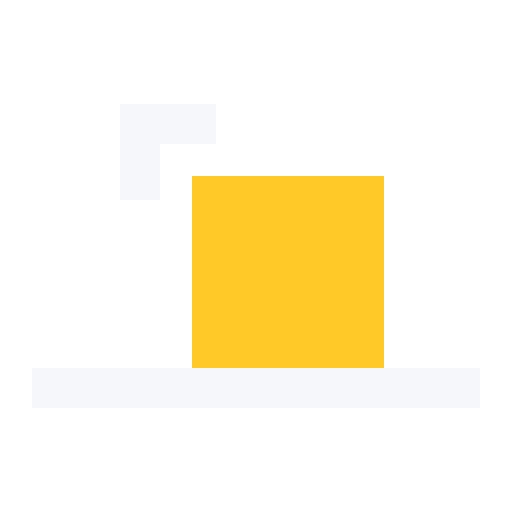
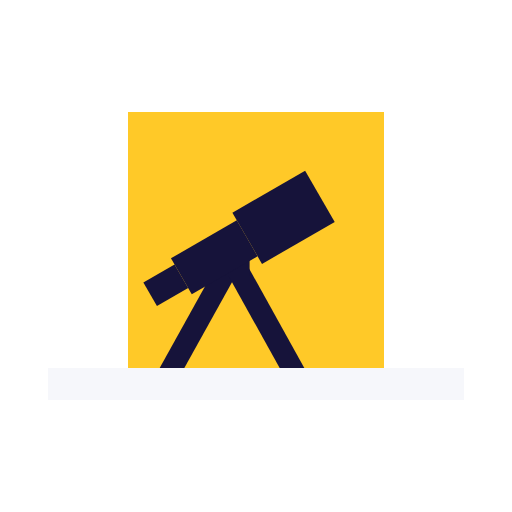
Brand: the telescope mark, with Sean's measured "ai" wordmark
The mark: a yellow frame resting on a rail, with a telescope inside it
standing on the rail and aimed up the word. Expectrail plays the game and
watches each frame against the expected line. The telescope replaces the
corner bracket; below about 24 px it melts into the frame, so the mark still
reads as a box on a rail at favicon size. The frame is now 32 units, so its
top meets the ascenders.

The wordmark is Sean's: TeX Gyre Adventor Regular with a 0.85-unit outline
stroke, the "ai" coloured (stone on light grounds, yellow on dark) with a
measurement rail under it and a square dot. build_logo.py now reproduces it
from the font, letter for letter, rather than from pasted paths. Changes on
top of his files:
- the "ai" rail is 2.4 units thick, up from 1.6, so it survives at the
  34 px header size;
- the gap between mark and word is tightened by 10 units;
- coordinates are rounded to two decimals, and each colour is one path,
  so a lockup is 3.3 KB instead of 11 KB.

Regenerated from the SVGs: the PNG exports, the brand sheet, the site's
Open Graph image and its touch icon. The landing page's logo sizes follow
the new aspect ratio. The brand README describes the new construction.

Claude-Session: https://claude.ai/code/session_01LDGtkVbYt3RqtUPurmjqEX

Changed region(s): [[0.25, 0.2188, 0.75, 0.7188]]

diff --git a/docs/index.html b/docs/index.html
@@ -196,7 +196,7 @@ footer a { color:var(--on-ink); }
 <a class="skip" href="#main">Skip to content</a>
 <div class="wrap">
   <header class="top">
-    <a class="logo" href="./" aria-label="Expectrail, home"><img src="brand/expectrail-logo.svg" alt="Expectrail" width="181" height="34"></a>
+    <a class="logo" href="./" aria-label="Expectrail, home"><img src="brand/expectrail-logo.svg" alt="Expectrail" width="171" height="34"></a>
     <nav aria-label="Sections">
       <a href="#how">How it works</a>
       <a href="#results">Results</a>
@@ -389,7 +389,7 @@ footer a { color:var(--on-ink); }
 <footer>
   <div class="wrap cols">
     <div>
-      <img src="brand/expectrail-logo-reverse.svg" alt="Expectrail" width="160" height="30">
+      <img src="brand/expectrail-logo-reverse.svg" alt="Expectrail" width="151" height="30">
       <p>Built for the Meta Global AI Developer Hackathon (Indie track), October 26 to November 4, 2026, by Sean Keluo-Udeke, Taofeek F. Obafemi-Babatunde, Timothy Itodo and Zayyad.</p>
       <p>Apache-2.0. The game is Godot's 2D platformer demo (MIT), unmodified.</p>
     </div>

diff --git a/docs/brand/build_logo.py b/docs/brand/build_logo.py
@@ -1,82 +1,153 @@
 """Build the Expectrail logo files (docs/brand/) from one construction: python3 docs/brand/build_logo.py
 
-Mark on a 64-unit grid (u = 4): a rail 56 x 5 (the expectation), a box 24 x 24 resting on it (what
-was observed), and one corner bracket 12-unit arms, 5 thick, 4 clear of the box (it was seen and
-measured). Wordmark: TeX Gyre Adventor Bold outlines (GUST Font License), the i's dot replaced by a
-square the colour of the box. In the lockup the box is one x-height tall and sits on the word's
-baseline, so the box reads as a letter-sized object on the same line as the word.
+The mark, on a 64-unit grid: a rail 52 x 4 (the expectation), and resting on it a yellow frame 32 x 32
+(a frame of the game, what Expectrail looks at). Inside the frame a telescope stands on the rail, on a
+two-legged tripod, aimed up and to the right, toward the name: Expectrail watches. At small sizes the
+telescope melts into the frame and the mark reads as a box resting on a rail, as before.
+
+The wordmark: TeX Gyre Adventor Regular outlines (GUST Font License), x-height 24, tracking -0.006 em,
+given weight with a 0.85-unit outline stroke. The dot of the i is a square, and the "ai" inside the name
+is measured: coloured, with a short yellow rail under it. In the lockup the frame's top lines up with
+the ascenders and its foot with the baseline, and the telescope looks along the word to the "ai".
+
+Colours: ink #16133A, paper #F6F7FB, rail yellow #FFC928, stone #4B4178. On a dark ground the "ai" is
+yellow; on a light ground it is stone, since yellow text on paper fails contrast. The telescope is ink in
+both, because it sits on the yellow frame.
 """
+import math
 import os
 from pathlib import Path
 
-from fontTools.pens.boundsPen import BoundsPen
-from fontTools.ttLib import TTFont
 from fontTools.pens.svgPathPen import SVGPathPen
 from fontTools.pens.transformPen import TransformPen
-
-def text_path(font_path, text, size=100, tracking=0, x=0, y=0, kern=True, skip_dot_i=False):
-    f = TTFont(font_path)
-    gs = f.getGlyphSet()
-    cmap = f.getBestCmap()
-    upm = f["head"].unitsPerEm
-    s = size / upm
-    hmtx = f["hmtx"]
-    pen = SVGPathPen(gs)
-    cx = x
-    boxes = {}
-    for ch in text:
-        gname = cmap[ord(ch)]
-        if skip_dot_i and ch == "i":
-            gname = cmap.get(0x0131, gname)  # dotless i
-        t = TransformPen(pen, (s, 0, 0, -s, cx, y))
-        gs[gname].draw(t)
-        adv = hmtx[gname][0] * s
-        boxes.setdefault(ch, []).append((cx, adv))
-        cx += adv + tracking
-    return pen.getCommands(), cx - x - tracking, boxes, f
-
+from fontTools.ttLib import TTFont
 
 INK, PAPER, RAIL, STONE = "#16133A", "#F6F7FB", "#FFC928", "#4B4178"
-# TeX Gyre Adventor Bold, OpenType (texlive-fonts-recommended, or https://www.gust.org.pl/projects/e-foundry/tex-gyre)
-ADV = os.environ.get("ADVENTOR_BOLD_OTF", "/usr/share/texmf/fonts/opentype/public/tex-gyre/texgyreadventor-bold.otf")
+# TeX Gyre Adventor Regular, OpenType (texlive-fonts-recommended, or https://www.gust.org.pl/projects/e-foundry/tex-gyre)
+REGULAR = os.environ.get("ADVENTOR_REGULAR_OTF",
+                         "/usr/share/texmf/fonts/opentype/public/tex-gyre/texgyreadventor-regular.otf")
 OUT = Path(__file__).resolve().parent
-DY = 2  # centre the mark vertically in its 64 box
 
-def mark_parts(ink, box, dy=DY):
-    rail = f'<rect x="4" y="{44+dy}" width="56" height="5" fill="{ink}"/>'
-    b = f'<rect x="24" y="{20+dy}" width="24" height="24" fill="{box}"/>'
-    x0, y0, t, a = 15, 11 + dy, 5, 12
-    br = f'<path d="M{x0} {y0}H{x0+a}V{y0+t}H{x0+t}V{y0+a}H{x0}Z" fill="{ink}"/>'
-    return rail + b + br
+BASELINE, XHEIGHT = 46, 24
+STROKE = 0.85            # the wordmark's added weight
+TRACKING_EM = -0.006     # -0.2633 units at this size
+WORD_X = 72              # where the word starts in the lockup
 
-def wrap(inner, vb, title, w=None, h=None):
-    size = f' width="{w}" height="{h}"' if w else ""
-    return (f'<svg xmlns="http://www.w3.org/2000/svg" viewBox="{vb}"{size} role="img" aria-label="{title}">'
-            f'<title>{title}</title>{inner}</svg>\n')
 
-def wordmark(color, tittle, x, baseline, xheight):
-    f_size = xheight / 0.554
-    d, width, boxes, f = text_path(ADV, "expectrail", f_size, -0.03 * f_size, x=x, y=baseline, skip_dot_i=True)
-    gs = f.getGlyphSet(); g = f.getBestCmap()[0x131]
-    bp = BoundsPen(gs); gs[g].draw(bp); xmin, ymin, xmax, ymax = bp.bounds
-    s = f_size / 1000
-    out = f'<path d="{d}" fill="{color}"/>'
-    for (cx, adv) in boxes["i"]:
-        sw = (xmax - xmin) * s
-        out += f'<rect x="{cx + xmin*s:.2f}" y="{baseline - xheight - sw*1.55:.2f}" width="{sw:.2f}" height="{sw:.2f}" fill="{tittle}"/>'
-    return out, width
+def r(v: float) -> str:
+    """Two decimals, no trailing zeros: the files stay small and diff cleanly."""
+    s = f"{v:.2f}".rstrip("0").rstrip(".")
+    return "0" if s == "-0" else s
 
-files = {}
-files["expectrail-mark.svg"] = wrap(mark_parts(INK, RAIL), "0 0 64 64", "Expectrail")
-files["expectrail-mark-reverse.svg"] = wrap(mark_parts(PAPER, RAIL), "0 0 64 64", "Expectrail")
-# favicon: the mark on an ink tile, readable in light and dark tabs
-files["favicon.svg"] = wrap(f'<rect width="64" height="64" rx="12" fill="{INK}"/>' + mark_parts(PAPER, RAIL), "0 0 64 64", "Expectrail")
 
-# lockup: box (24) = x-height, baseline = rail top (y 46)
-for name, ink in (("expectrail-logo.svg", INK), ("expectrail-logo-reverse.svg", PAPER)):
-    wm, ww = wordmark(ink, RAIL, 72, 44 + DY, 24)
-    width = 72 + ww + 4
-    files[name] = wrap(mark_parts(ink, RAIL) + wm, f"0 6 {width:.1f} 52", "Expectrail")
-for n, svg in files.items():
-    open(f"{OUT}/{n}", "w").write(svg)
-print({n: len(s) for n, s in files.items()})
+def poly(points, fill):
+    return f'<path d="M{"L".join(f"{r(x)} {r(y)}" for x, y in points)}Z" fill="{fill}"/>'
+
+
+# ---------------------------------------------------------------- the mark
+def telescope(bx: float, by: float, s: float, fill: str) -> str:
+    """A telescope on a two-legged tripod, standing on the floor of a frame of side s at (bx, by)."""
+    u = s / 32                                   # drawn on a 32-unit frame
+    px, py = bx + 13 * u, by + 18.5 * u          # the mount
+    floor = by + s
+    out = ""
+    for foot in (5.5, 20.5):                     # the legs, cut flat on the floor
+        fx = bx + foot * u
+        dx, dy = fx - px, floor - py
+        n = math.hypot(dx, dy)
+        ox, oy = -dy / n * 1.35 * u, dx / n * 1.35 * u      # half the leg's width, across it
+        top = [(px + ox, py + oy), (px - ox, py - oy)]
+        bottom = []
+        for qx, qy in top:                       # each edge of the leg, run down to the floor
+            t = (floor - qy) / dy
+            bottom.append((qx + dx * t, floor))
+        out += poly([top[0], top[1], bottom[1], bottom[0]], fill)
+    out += f'<rect x="{r(px - 2.2 * u)}" y="{r(py - 1.6 * u)}" width="{r(4.4 * u)}" height="{r(3.6 * u)}" fill="{fill}"/>'
+    a = math.radians(-30)                        # the tube, stepped like a spyglass, aimed up and right
+    ax, ay = math.cos(a), math.sin(a)
+    nx, ny = -ay, ax
+    cx, cy = px + nx * -1.4 * u, py + ny * -1.4 * u          # the tube rides just above the mount
+    for t0, t1, h in ((-11, -6.5, 3.4), (-6.5, 3, 5.2), (3, 13.5, 7.4)):
+        hh = h * u / 2
+        p0 = (cx + ax * t0 * u, cy + ay * t0 * u)
+        p1 = (cx + ax * t1 * u, cy + ay * t1 * u)
+        out += poly([(p0[0] + nx * hh, p0[1] + ny * hh), (p1[0] + nx * hh, p1[1] + ny * hh),
+                     (p1[0] - nx * hh, p1[1] - ny * hh), (p0[0] - nx * hh, p0[1] - ny * hh)], fill)
+    return out
+
+
+def mark(rail_colour: str) -> str:
+    return (f'<rect x="6" y="46" width="52" height="4" fill="{rail_colour}"/>'
+            f'<rect x="16" y="14" width="32" height="32" fill="{RAIL}"/>' + telescope(16, 14, 32, INK))
+
+
+# ---------------------------------------------------------------- the wordmark
+def wordmark(text_colour: str, ai_colour: str, x0: float) -> str:
+    font = TTFont(REGULAR)
+    gs, cmap, hmtx = font.getGlyphSet(), font.getBestCmap(), font["hmtx"]
+    k = XHEIGHT / font["OS/2"].sxHeight
+    tracking = TRACKING_EM * k * 1000
+    paths = {text_colour: "", ai_colour: ""}
+    x, spans = x0, {}
+    for ch in "expectrail":
+        name = cmap[0x131] if ch == "i" else cmap[ord(ch)]    # a dotless i: its dot is a square
+        pen = SVGPathPen(gs, ntos=r)
+        gs[name].draw(TransformPen(pen, (k, 0, 0, -k, x, BASELINE)))
+        colour = ai_colour if ch in "ai" else text_colour
+        paths[colour] += pen.getCommands()
+        adv = hmtx[name][0] * k
+        spans[ch] = (x, x + adv)
+        x += adv + tracking
+    out = "".join(f'<path d="{d}" fill="{c}" stroke="{c}" stroke-width="{STROKE}" stroke-linejoin="round"/>'
+                  for c, d in paths.items() if d)
+    # the i's stem, from its own outline, sets the dot and the end of the rail
+    stem = _bounds(gs, cmap[0x131], k, spans["i"][0])
+    a_left = _bounds(gs, cmap[ord("a")], k, spans["a"][0])[0]
+    right = _bounds(gs, cmap[ord("l")], k, spans["l"][0])[1] + STROKE / 2
+    half = STROKE / 2
+    dot = stem[1] - stem[0] + STROKE
+    out += f'<rect x="{r(stem[0] - half)}" y="{r(BASELINE - XHEIGHT - half - 2.24 - dot)}" width="{r(dot)}" height="{r(dot)}" fill="{RAIL}"/>'
+    out += (f'<rect x="{r(a_left - half)}" y="49.2" width="{r(stem[1] + half - (a_left - half))}" height="2.4" '
+            f'fill="{RAIL}"/>')
+    return out, right
+
+
+def _bounds(gs, name, k, ox):
+    """A glyph's left and right ink edges, placed at ox."""
+    from fontTools.pens.boundsPen import BoundsPen
+    bp = BoundsPen(gs)
+    gs[name].draw(bp)
+    x0, _, x1, _ = bp.bounds
+    return ox + x0 * k, ox + x1 * k
+
+
+# ---------------------------------------------------------------- files
+def svg(body: str, view_box: str, desc: str) -> str:
+    return (f'<svg xmlns="http://www.w3.org/2000/svg" viewBox="{view_box}" role="img" aria-labelledby="t d">'
+            f'<title id="t">Expectrail</title><desc id="d">{desc}</desc>{body}</svg>\n')
+
+
+MARK_DESC = "A telescope on a tripod inside a yellow frame that rests on a rail"
+LOCKUP_DESC = MARK_DESC + ", beside the word expectrail with its a and i measured by a short yellow rail"
+
+
+def build() -> dict[str, str]:
+    files = {}
+    files["expectrail-mark.svg"] = svg(mark(INK), "0 0 64 64", MARK_DESC)
+    files["expectrail-mark-reverse.svg"] = svg(mark(PAPER), "0 0 64 64", MARK_DESC)
+    # the app icon: the mark on an ink tile, a little larger so the frame fills it
+    tile = (f'<rect width="64" height="64" rx="12" fill="{INK}"/>'
+            f'<g transform="translate(32 33) scale(1.08) translate(-32 -32)">{mark(PAPER)}</g>')
+    files["favicon.svg"] = svg(tile, "0 0 64 64", MARK_DESC)
+    for name, text, ai, rail in (("expectrail-logo.svg", INK, STONE, INK),
+                                 ("expectrail-logo-reverse.svg", PAPER, RAIL, PAPER)):
+        word, end = wordmark(text, ai, WORD_X)
+        files[name] = svg(mark(rail) + word, f"2 4 {r(end + 4 - 2)} 56", LOCKUP_DESC)
+    return files
+
+
+if __name__ == "__main__":
+    written = build()
+    for n, text in written.items():
+        (OUT / n).write_text(text, encoding="utf-8")
+    print({n: len(t) for n, t in written.items()})

diff --git a/docs/brand/README.md b/docs/brand/README.md
@@ -2,19 +2,25 @@
 
 ![The Expectrail brand sheet](expectrail-brand-sheet.png)
 
-**A box resting on a rail, seen and measured.** Expectrail checks that what a game draws sits where
-it is expected to be. The mark is that check, drawn once:
+**A telescope in a frame on a rail.** Expectrail plays the game and watches each frame, measured
+against the line a fix must keep to. The name carries its subject too: the "ai" inside expectrail is
+measured.
 
-- **The rail** is the expectation: the floor a fix must keep the robot above, the line a check is
+- **The rail** is the expectation: the floor a fix must keep the robot above, the line every check is
   measured against.
-- **The box** is the observation: what the vision model found in the frame. It rests exactly on
-  the rail, which is what passing looks like.
-- **The bracket** is one corner of a detection box, the trace a model leaves: it was seen and
-  measured. One corner only, so the mark never reads as a face or a picture frame.
+- **The frame** is a frame of the game, what Expectrail looks at. It rests on the rail, which is what
+  passing looks like.
+- **The telescope** is watching. It stands on the rail inside the frame and looks up the word,
+  toward the "ai".
+- **The measured "ai"** has a short yellow rail under the a and i, and a square for the dot: the AI's
+  work, checked against a line.
 
-The wordmark is `expectrail` in lower case, drawn from TeX Gyre Adventor Bold outlines, tracked
--0.03 em, with the dot on the i replaced by a yellow square: the box again. In the lockup the box
-is one x-height tall and sits on the word's baseline, so the rail is the line the letters stand on.
+The wordmark is `expectrail` in lower case. It is drawn from TeX Gyre Adventor Regular outlines at an
+x-height of 24 units, tracked -0.006 em, and given weight with a 0.85-unit outline stroke. In the
+lockup, the frame's top lines up with the ascenders and its foot with the baseline.
+
+At small sizes the telescope melts into the frame, and the mark reads as a box resting on a rail.
+That is by design.
 
 ## Files
 
@@ -27,39 +33,65 @@ is one x-height tall and sits on the word's baseline, so the rail is the line th
 | [`png/`](png) | The same at 1200 px (lockups) and 512 px (mark, app icon), transparent |
 | [`expectrail-brand-sheet.png`](expectrail-brand-sheet.png) | The mark, its construction, colours and use as one image, for slides and the video |
 
-The SVGs are built by [`build_logo.py`](build_logo.py) from one construction; edit that, not the
-SVGs. The PNGs and the brand sheet were rendered from the SVGs in Chromium, so re-render them after
-any change. It needs `fontTools` and the TeX Gyre Adventor Bold OpenType file (set `ADVENTOR_BOLD_OTF`
-if it isn't at the TeX Live path).
+The SVGs are built by [`build_logo.py`](build_logo.py) from one construction. Edit that, not the SVGs.
+The PNGs, the brand sheet, the site's Open Graph image and its touch icon were rendered from the SVGs
+in Chromium, so re-render them after any change. The script needs `fontTools` and the TeX Gyre
+Adventor Regular OpenType file; set `ADVENTOR_REGULAR_OTF` if it isn't at the TeX Live path.
 
 ## Construction
 
-On a 64-unit grid: the rail is 56 × 5 at y 46; the box 24 × 24 resting on it, at x 24; the bracket's
-arms are 12 long and 5 thick, 4 clear of the box. In the lockup the word starts at x 72, its
-x-height is 24 (the box) and its baseline is the rail's top edge.
+The mark is drawn on a 64-unit grid:
+
+- **The rail** is 52 × 4, at y 46.
+- **The frame** is 32 × 32, from (16, 14), resting on the rail.
+- **The telescope** is drawn on the frame's own 32-unit grid:
+  - The mount is at (13, 18.5).
+  - The two legs run from the mount to the floor at x 5.5 and 20.5, 2.7 wide, and are cut flat on the
+    rail.
+  - The tube has three steps (3.4, 5.2 and 7.4 thick), aimed 30° above level, toward the word.
+
+In the lockup, the word starts at x 72 with its baseline on the rail's top edge. The "ai" rail is 2.4
+thick, 3.2 below the baseline, and spans the a's left edge to the i's right edge. The i's dot is a
+square as wide as the i's stem, with its outline stroke.
 
 ## Colour
 
 | Name | Hex | Use |
 | --- | --- | --- |
-| Ink | `#16133A` | Text, the rail on light grounds, dark panels |
-| Rail | `#FFC928` | The box, the rail line on the site, Expectrail's own results |
-| Paper | `#F6F7FB` | The page; the rail and bracket on dark grounds |
-| Stone | `#4B4178` | Secondary text |
+| Ink | `#16133A` | Text, the rail on light grounds, the telescope always, dark panels |
+| Rail | `#FFC928` | The frame, the "ai" rail and dot, the "ai" on dark grounds, Expectrail's own results |
+| Paper | `#F6F7FB` | The page; the rail and the word on dark grounds |
+| Stone | `#4B4178` | The "ai" on light grounds; secondary text |
 | Pass | `#157F4E` | "Accepted" verdicts only |
 | Fail | `#C2303A` | "Rejected" verdicts only |
 
-Contrast: ink on paper 16.5:1, stone on paper 8.4:1, white on pass 5.0:1 and on fail 5.6:1, rail on
-ink 11.5:1. Rail on paper is 1.4:1, so on light grounds yellow is a shape or an underline, never
-text.
+Contrast ratios:
+
+| Pair | Ratio |
+| --- | --- |
+| Ink on paper | 16.5:1 |
+| Stone on paper | 8.4:1 |
+| Ink on rail (the telescope on the frame) | 11.5:1 |
+| White on pass | 5.0:1 |
+| White on fail | 5.6:1 |
+| Rail on paper | 1.4:1 |
+
+Because rail on paper is only 1.4:1, yellow on a light ground is a shape or an underline, never text.
+On a light ground the "ai" is stone for that reason.
 
 ## Use
 
-- **Clear space:** the height of the box on every side.
-- **Minimum size:** the lockup 20 px tall on screen; below that, use the mark or the favicon. The
-  brand sheet shows the favicon at 16 px.
-- **Type:** TeX Gyre Adventor for headings, labels and numbers, in sentence case; Lora for reading.
-  Both are self-hosted on the site with their licences ([`../assets/fonts/`](../assets/fonts/README.md)).
+- **Clear space:** half the frame's height on every side.
+- **Minimum size:** the lockup is 24 px tall on screen. Below that, use the mark or the favicon.
+- **Type:** TeX Gyre Adventor for headings, labels and numbers, in sentence case, and Lora for
+  reading. Both are self-hosted on the site with their licences
+  ([`../assets/fonts/`](../assets/fonts/README.md)).
 
-Don't recolour the box or the rail of the positive logo, lift the box off the rail, rotate it, add
-a second bracket, set the wordmark in a live font, or put the positive logo on a dark ground.
+Don't:
+
+- recolour the frame, or make the telescope anything but ink;
+- lift the frame off the rail, rotate the mark, or turn the telescope away from the word;
+- set the wordmark in a live font;
+- make the "ai" yellow on a light ground, or put the positive logo on a dark one.
+
+The bracket mark used before October 31 is retired.

diff --git a/docs/assets/fonts/README.md b/docs/assets/fonts/README.md
@@ -19,4 +19,4 @@ The source files, so the conversion can be checked: with fontTools, `TTFont(src)
[2 lines of base64/hex data omitted]
 
-The logo's wordmark is drawn from TeX Gyre Adventor Bold outlines (`docs/brand/`).
+The logo's wordmark is drawn from TeX Gyre Adventor Regular outlines (`docs/brand/`).
